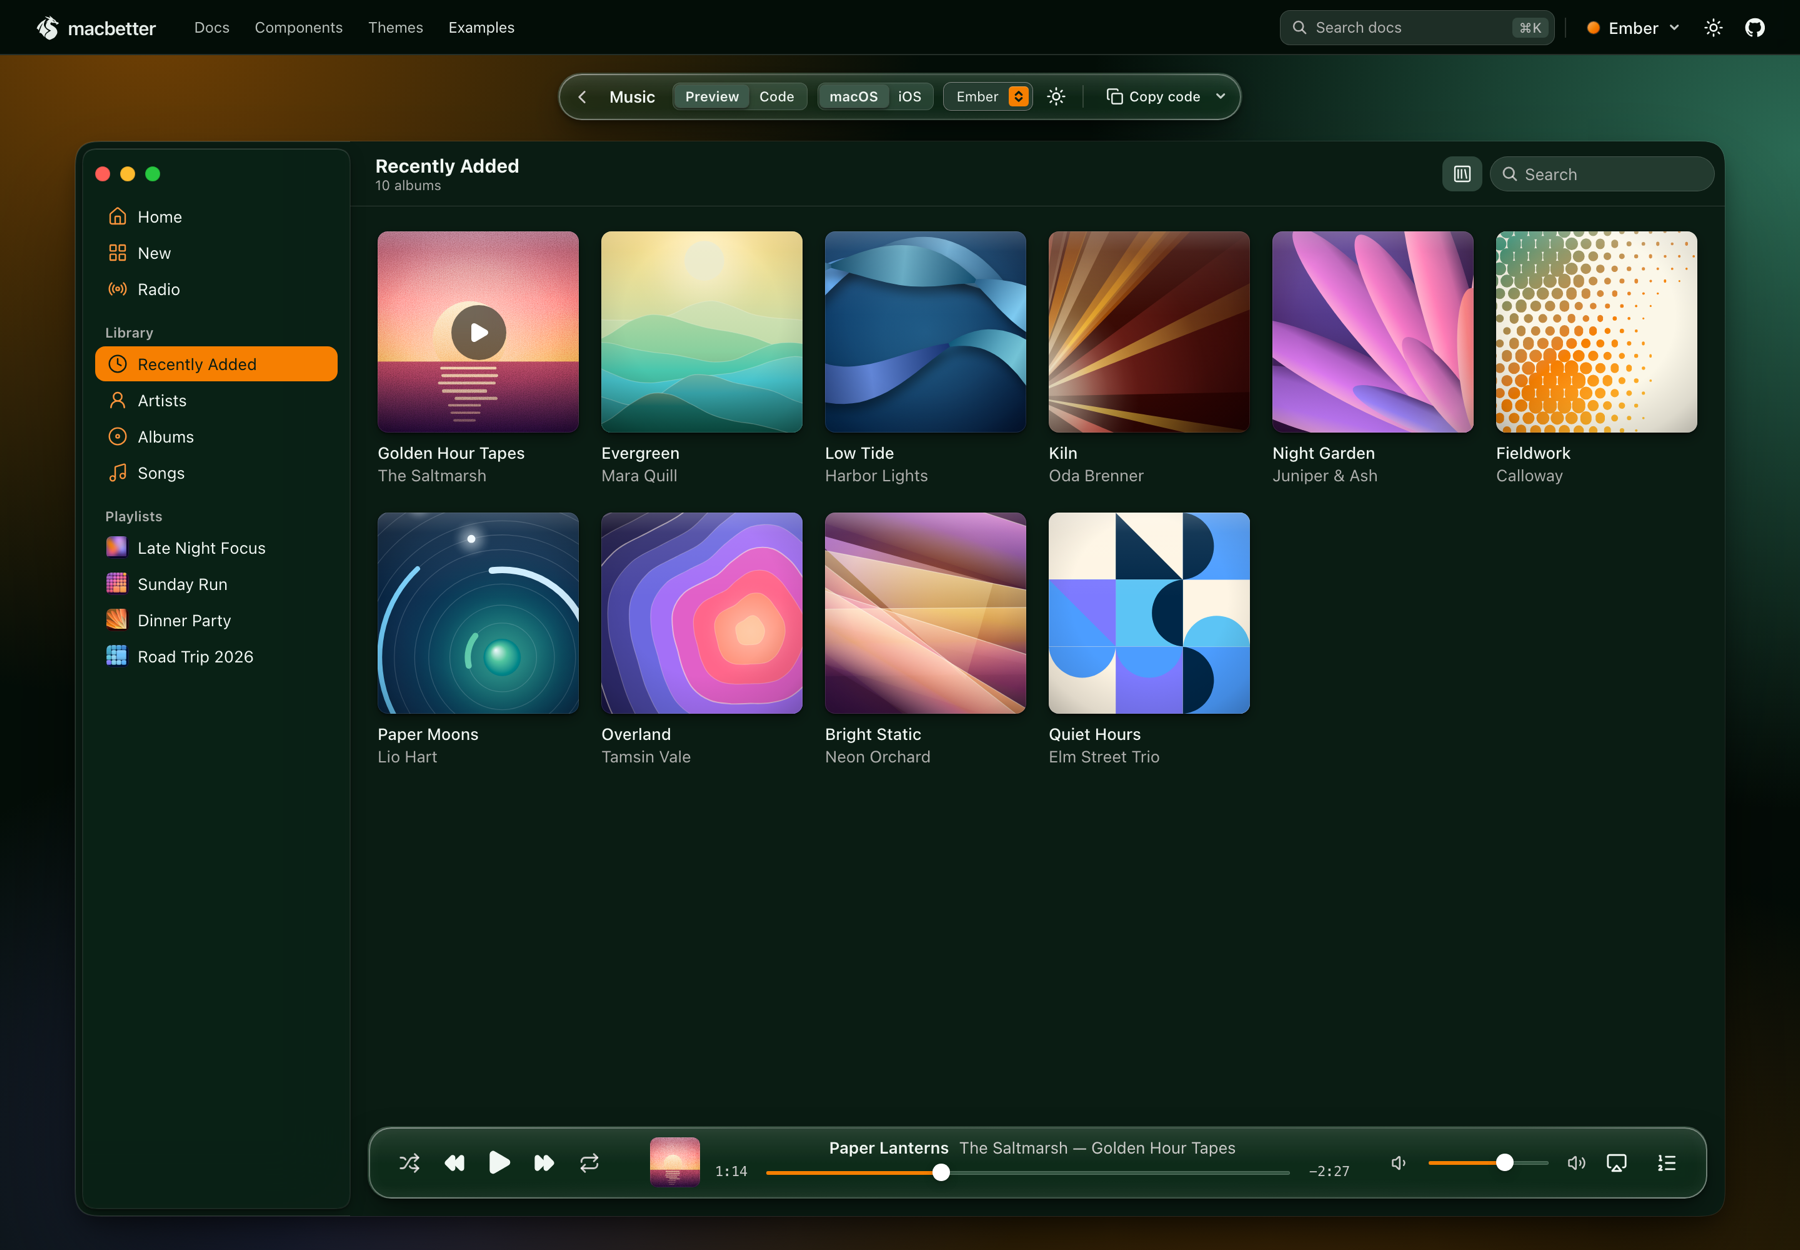
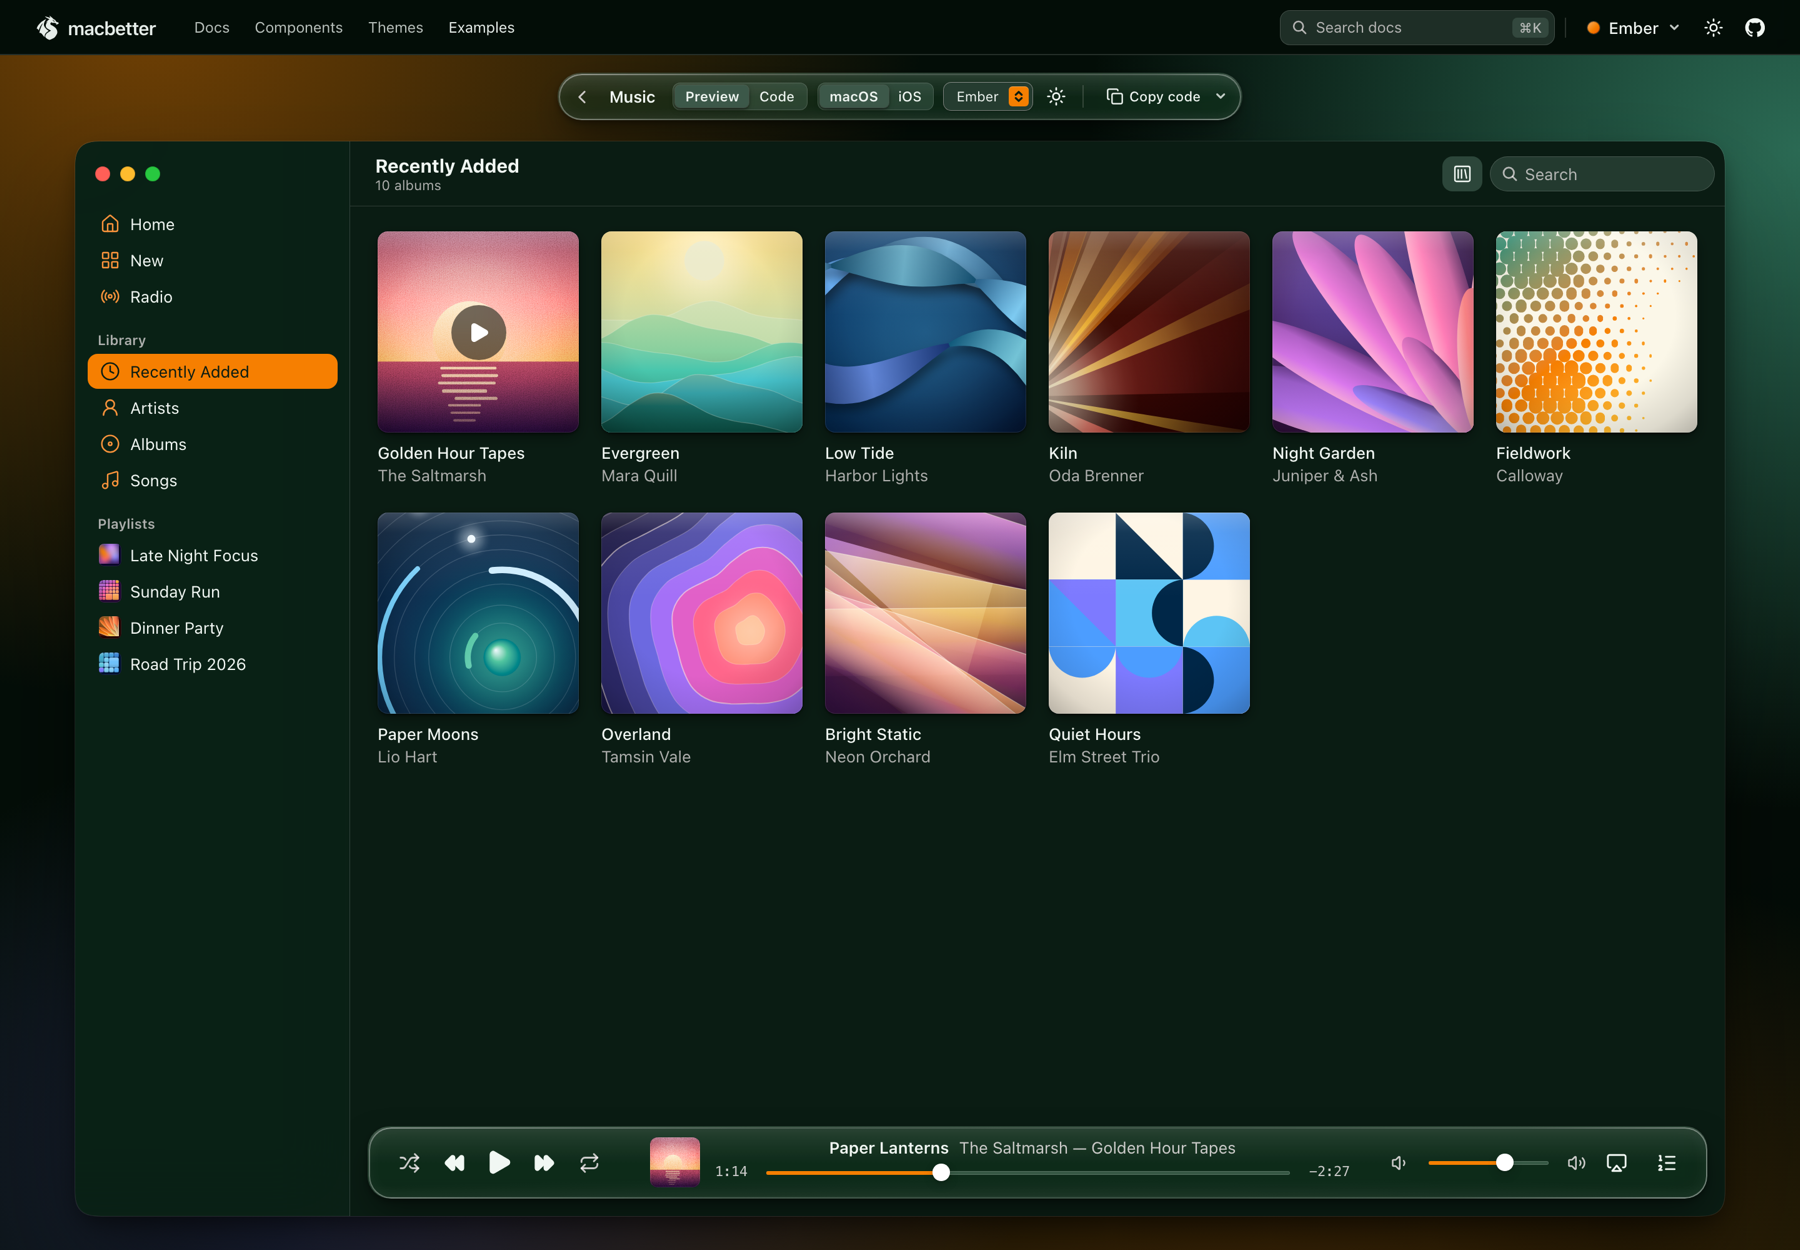
Edge-to-edge window sidebar; plain-English headlines
- WindowSidebar runs the full height of the window, edge to edge, with a
  hairline against the content, as macOS 27 draws it. The inset glass pane
  of macOS 26 stays available as variant="floating".
- Components and Examples index headlines replaced; slogan-style copy on
  the landing page, 404, charts, agents and theming pages rewritten as
  plain statements; the rule is in AGENTS.md

Changed region(s): [[0.0311, 0.156, 0.1867, 0.5616]]

diff --git a/packages/macbetter/src/styles/components/window.css b/packages/macbetter/src/styles/components/window.css
@@ -1,10 +1,11 @@
-/* Window — a macOS window: title bar, traffic lights, an inset glass sidebar and the content. */
+/* Window — a macOS window: title bar, optional traffic lights, a full-height sidebar and the content. */
 
 .mb-window {
   --mb-window-radius: var(--mb-radius-xl);
   --mb-window-titlebar-height: var(--mb-bar-height);
   --mb-window-sidebar-width: 220px;
-  --mb-window-sidebar-inset: 6px;
+  /* 0 for the edge-to-edge sidebar; the floating variant insets it. */
+  --mb-window-sidebar-inset: 0px;
   /* The traffic lights are system chrome: they keep Apple's colors in every theme. */
   --mb-window-close: #ff5f57;
   --mb-window-minimize: #febc2e;
@@ -38,6 +39,10 @@
 
 .mb-window:has(> .mb-window-sidebar) > :not(.mb-window-sidebar) {
   grid-column: 2;
+}
+
+.mb-window:has(> .mb-window-sidebar[data-variant="floating"]) {
+  --mb-window-sidebar-inset: 6px;
 }
 
 /* Title bar */
@@ -256,7 +261,10 @@ button.mb-window-traffic-light:focus-visible {
   box-shadow: none;
 }
 
-/* Sidebar: a floating pane of glass, inset from the window's edges. */
+/*
+ * Sidebar: runs the full height of the window, edge to edge, with a hairline
+ * against the content, as current macOS draws it.
+ */
 .mb-window-sidebar {
   --mb-sidebar-bg: transparent;
   --mb-sidebar-filter: none;
@@ -273,10 +281,22 @@ button.mb-window-traffic-light:focus-visible {
   margin: var(--mb-window-sidebar-inset);
   margin-inline-end: 0;
   overflow: hidden;
-  border-radius: calc(var(--mb-window-radius) - var(--mb-window-sidebar-inset));
   background: var(--mb-material-sidebar);
   -webkit-backdrop-filter: var(--mb-material-filter);
   backdrop-filter: var(--mb-material-filter);
+  box-shadow: inset calc(var(--mb-hairline) * -1) 0 0 var(--mb-separator);
+  /* Its own leading corners match the window's: a blurred layer isn't always clipped by its parent's curve. */
+  border-start-start-radius: var(--mb-window-radius);
+  border-end-start-radius: var(--mb-window-radius);
+}
+
+:where([dir="rtl"]) .mb-window-sidebar {
+  box-shadow: inset var(--mb-hairline) 0 0 var(--mb-separator);
+}
+
+/* Floating: a pane of glass inset from the window's edges with its own shadow, as macOS 26 drew it. */
+.mb-window-sidebar[data-variant="floating"] {
+  border-radius: calc(var(--mb-window-radius) - var(--mb-window-sidebar-inset));
   box-shadow:
     var(--mb-glass-rim),
     0 0 0 var(--mb-hairline) var(--mb-glass-border),
@@ -388,7 +408,7 @@ button.mb-window-traffic-light:focus-visible {
   background: var(--mb-bg);
 }
 
-/* Continuous corners on the window and, concentric with them, the inset sidebar. Traffic lights stay round. */
+/* Continuous corners on the window and, concentric with them, a floating sidebar. Traffic lights stay round. */
 @supports (corner-shape: squircle) {
   .mb-window {
     corner-shape: var(--mb-corner-shape);
@@ -396,6 +416,12 @@ button.mb-window-traffic-light:focus-visible {
   }
 
   .mb-window-sidebar {
+    corner-shape: var(--mb-corner-shape);
+    border-start-start-radius: calc(var(--mb-window-radius) * var(--mb-corner-factor));
+    border-end-start-radius: calc(var(--mb-window-radius) * var(--mb-corner-factor));
+  }
+
+  .mb-window-sidebar[data-variant="floating"] {
     corner-shape: var(--mb-corner-shape);
     border-radius: calc((var(--mb-window-radius) - var(--mb-window-sidebar-inset)) * var(--mb-corner-factor));
   }

diff --git a/packages/macbetter/src/components/window.tsx b/packages/macbetter/src/components/window.tsx
@@ -128,8 +128,16 @@ function WindowTitlebarTrailing({ className, ...props }: React.ComponentProps<"d
   return <div className={join("mb-window-titlebar-trailing", className)} {...props} />
 }
 
-function WindowSidebar({ className, ...props }: React.ComponentProps<"div">) {
-  return <div className={join("mb-window-sidebar", className)} {...props} />
+type WindowSidebarProps = React.ComponentProps<"div"> & {
+  /**
+   * `edge` runs the sidebar the full height of the window, edge to edge, as current macOS does.
+   * `floating` insets it as a pane of glass with its own shadow, as macOS 26 did.
+   */
+  variant?: "edge" | "floating"
+}
+
+function WindowSidebar({ variant = "edge", className, ...props }: WindowSidebarProps) {
+  return <div data-variant={variant} className={join("mb-window-sidebar", className)} {...props} />
 }
 
 /**
@@ -176,4 +184,11 @@ export {
   WindowTitlebarTrailing,
   WindowTrafficLights,
 }
-export type { WindowAppNameProps, WindowProps, WindowTitlebarProps, WindowTitleProps, WindowTrafficLightsProps }
+export type {
+  WindowAppNameProps,
+  WindowProps,
+  WindowSidebarProps,
+  WindowTitlebarProps,
+  WindowTitleProps,
+  WindowTrafficLightsProps,
+}

diff --git a/packages/macbetter/test/window.test.tsx b/packages/macbetter/test/window.test.tsx
@@ -129,3 +129,19 @@ test("an app name inside a menu trigger becomes a workspace switcher that opens 
   await user.click(await screen.findByRole("menuitem", { name: "Acme Studio" }))
   expect(onAction).toHaveBeenCalledWith("acme", expect.anything())
 })
+
+test("a sidebar runs edge to edge unless it's asked to float", () => {
+  const { container } = render(
+    <>
+      <Window aria-label="One">
+        <WindowSidebar>Sidebar</WindowSidebar>
+      </Window>
+      <Window aria-label="Two">
+        <WindowSidebar variant="floating">Sidebar</WindowSidebar>
+      </Window>
+    </>
+  )
+  const [edge, floating] = Array.from(container.querySelectorAll<HTMLElement>(".mb-window-sidebar"))
+  expect(edge?.dataset.variant).toBe("edge")
+  expect(floating?.dataset.variant).toBe("floating")
+})

diff --git a/apps/docs/src/components/landing/hero.tsx b/apps/docs/src/components/landing/hero.tsx
@@ -19,8 +19,8 @@ function Hero() {
           className="stack-copy lp-hero-intro type-intro-elevated type-two-tone lp-enter"
           style={{ "--i": 2 } as React.CSSProperties}
         >
-          A set of React components that look and behave like Apple’s own controls.{" "}
-          <strong>Theme it to any brand, ship it to every screen,</strong> and let ui-sdk handle the keyboard, focus
+          macbetter is a set of React components that look and behave like Apple’s controls on macOS, iPadOS
+          and iOS. <strong>You can theme them for your brand,</strong> and ui-sdk handles the keyboard, focus
           and&nbsp;accessibility.
         </p>
         <div className="lp-hero-actions lp-enter" style={{ "--i": 3 } as React.CSSProperties} data-platform="macos">

diff --git a/apps/docs/src/app/not-found.tsx b/apps/docs/src/app/not-found.tsx
@@ -21,11 +21,11 @@ export default function NotFound() {
           <MacbetterMark size={64} tone="ember" />
           <p className="stack-eyebrow type-eyebrow-reduced mt-8">Page not found</p>
           <h1 className="stack-headline type-headline-elevated">
-            This page drifted&nbsp;off.
+            This page doesn’t&nbsp;exist.
           </h1>
           <p className="stack-copy type-intro type-two-tone">
             The address may be mistyped, or the page may have moved.{" "}
-            <strong>These are good places to pick up&nbsp;again.</strong>
+            <strong>Try one of these pages&nbsp;instead.</strong>
           </p>
           <nav aria-label="Suggested pages" className="stack-links type-body">
             {destinations.map((destination) => (

diff --git a/apps/docs/src/components/landing/bento.tsx b/apps/docs/src/components/landing/bento.tsx
@@ -136,8 +136,8 @@ function Bento() {
         headline={<>Every UI element from the Human Interface Guidelines (and&nbsp;more).</>}
         links={<MoreLink href="/docs/components">Explore all components</MoreLink>}
       >
-        Menus, sliders, calendars, alerts and command palettes that look and behave like the native control, at a
-        glance and under the hand. <strong>Every tile below&nbsp;works.</strong>
+        Menus, sliders, calendars, alerts and command palettes that look and behave like the native controls.{" "}
+        <strong>Every tile below is a working&nbsp;component.</strong>
       </SectionHeading>
       <div className="lp-bento lp-reveal" data-platform="macos">
         <Tile area="menu" name="Menu" slug="menu" className="lp-tile-menu">

diff --git a/apps/docs/src/app/page.tsx b/apps/docs/src/app/page.tsx
@@ -18,9 +18,9 @@ import { socialMetadata, tagline } from "@/lib/og/routes"
 export const metadata: Metadata = {
   title: { absolute: `macbetter — ${tagline}` },
   description:
-    "macbetter is a design system: Apple-grade React components for macOS, iPadOS and iOS, themeable to any brand and built on ui-sdk.",
+    "macbetter is a design system: Apple-style React components for macOS, iPadOS and iOS, themeable to any brand and built on ui-sdk.",
   alternates: { canonical: "/" },
-  ...socialMetadata({ path: "", description: "Apple-grade components for React, themeable to any brand, built on ui-sdk." }),
+  ...socialMetadata({ path: "", description: "Apple-style components for React, themeable to any brand, built on ui-sdk." }),
 }
 
 const sections = [

diff --git a/apps/docs/src/demos/foundations/web-type-specimen.tsx b/apps/docs/src/demos/foundations/web-type-specimen.tsx
@@ -4,7 +4,7 @@ import { useEffect, useRef, useState } from "react"
 
 const styles = [
   { name: "Headline super", className: "type-headline-super", sample: "Ship it everywhere." },
-  { name: "Headline elevated", className: "type-headline-elevated", sample: "One codebase." },
+  { name: "Headline elevated", className: "type-headline-elevated", sample: "A section headline" },
   { name: "Headline", className: "type-headline", sample: "Any brand." },
   { name: "Headline reduced", className: "type-headline-reduced", sample: "Explore the docs." },
   { name: "Eyebrow", className: "type-eyebrow", sample: "Materials and motion" },

diff --git a/apps/docs/src/app/layout.tsx b/apps/docs/src/app/layout.tsx
@@ -13,7 +13,7 @@ export const metadata: Metadata = {
   metadataBase: new URL("https://macbetter.dev"),
   title: { default: `macbetter — ${tagline}`, template: "%s · macbetter" },
   description:
-    "macbetter is a design system: Apple-grade components for the web, themeable to any brand and built on ui-sdk.",
+    "macbetter is a design system: Apple-style components for the web, themeable to any brand and built on ui-sdk.",
   applicationName: "macbetter",
   authors: [{ name: "Kyle Ledbetter", url: "https://github.com/kyleledbetter" }],
   creator: "Kyle Ledbetter",

diff --git a/apps/docs/src/app/docs/components/page.tsx b/apps/docs/src/app/docs/components/page.tsx
@@ -36,9 +36,7 @@ export default function ComponentsIndex() {
       <header className="stack">
         <p className="stack-eyebrow docs-eyebrow">Components</p>
         <h1 className="stack-headline type-headline">
-          Every control.
-          <br />
-          On every&nbsp;platform.
+          Designed by Apple in&nbsp;California.
         </h1>
         <p className="stack-copy type-intro type-two-tone">
           {count} components for macOS, iPadOS and iOS. Each one is a ui-sdk part with Apple’s metrics, materials and

diff --git a/apps/docs/src/components/examples/gallery.tsx b/apps/docs/src/components/examples/gallery.tsx
@@ -97,9 +97,7 @@ function ExamplesGallery() {
         <header className="stack ex-index-header">
           <p className="stack-eyebrow docs-eyebrow">Examples</p>
           <h1 className="stack-headline type-headline">
-            Four apps.
-            <br />
-            Nothing but&nbsp;macbetter.
+            Better examples for better&nbsp;apps.
           </h1>
           <p className="stack-copy type-intro type-two-tone">
             Settings, Mail, Analytics and Music, built only from macbetter components.{" "}

diff --git a/apps/docs/src/components/landing/themes.tsx b/apps/docs/src/components/landing/themes.tsx
@@ -76,7 +76,7 @@ function Themes() {
               </>
             }
           >
-            A theme answers about a dozen questions: the accent, the ink, the surfaces, a tint for fills, a radius
+            A theme sets about a dozen values: the accent, the text color, the surfaces, a tint for fills, a radius
             scale and a font. <strong>Every other color, shadow and corner derives from those seeds,</strong> in
             light and&nbsp;dark.
           </SectionHeading>
